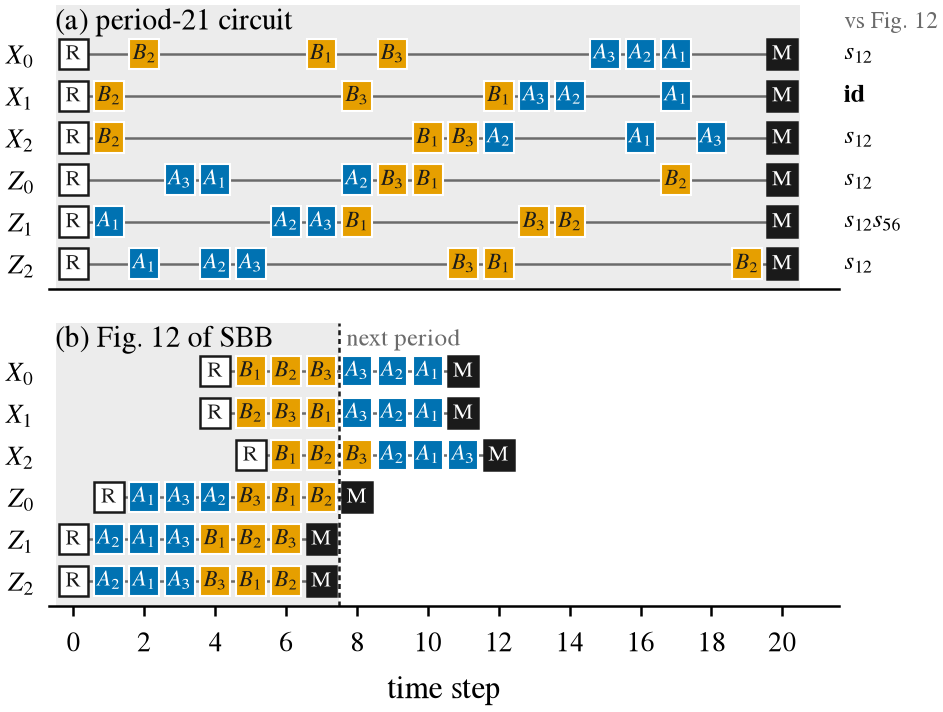
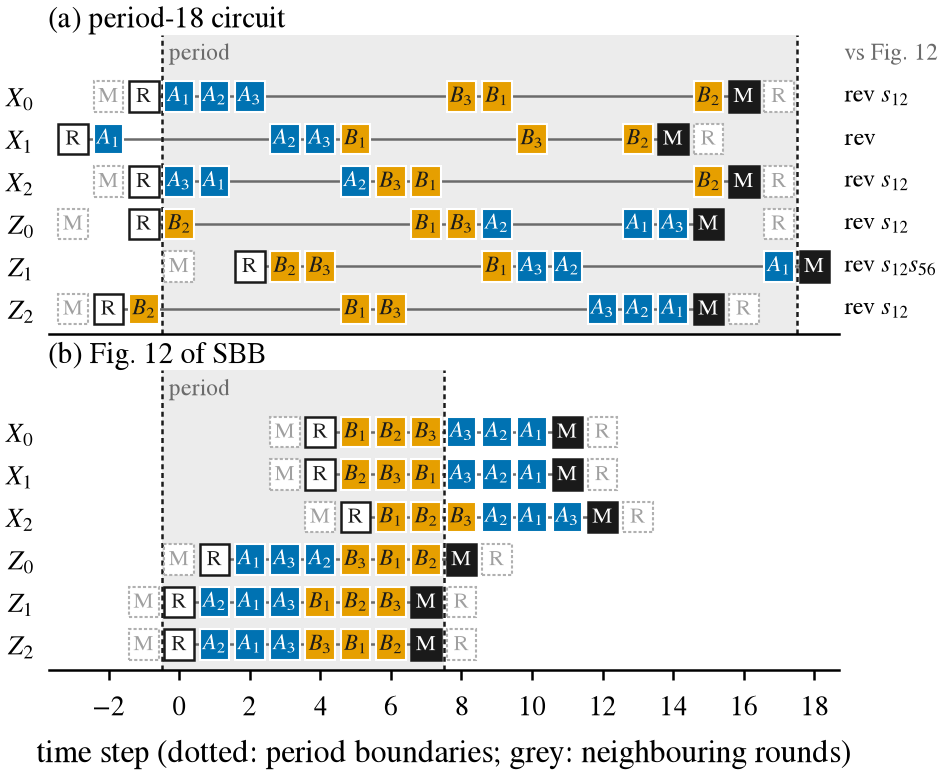
paper: Fig. 1 regenerated for the period-18 headline circuit cs_P18_H24 (wrapping, pipelined) vs Fig. 12
Asserts against audit 2026-10-11-E-024b A-a: period 18, prep/meas sets, 144/144 reversal + in-pair swaps,
switch histogram 48x2 / 96x4 (= auditor b1_legal), legality/L0/determinism flags; Fig. 12 checked against baselines.strikis.

diff --git a/paper/scripts/fig1_timing.py b/paper/scripts/fig1_timing.py
@@ -1,15 +1,20 @@
-"""Fig. 1: timing diagram of the period-21 gross circuit (cand_p21) vs Fig. 12 of SBB (arXiv:2603.05481).
+"""Fig. 1: timing diagram of the period-18 gross circuit (cs_P18_H24) vs Fig. 12 of SBB (arXiv:2603.05481).
 
   uv run python paper/scripts/fig1_timing.py
 
 Data (read-only):
-  search/experiments/e021/cand_p21_spec.json          (in git)
+  search/experiments/e024a/cs_P18_H24.json            (in git; headline circuit, STATE item 13)
+  results/E-024b-audit/cs_P18/b1_legal.json, b2_ext.json  (auditor: prep/meas sets, switch histogram, orders)
   results/E-021-gross-new-orders/fig12_spec.json      (data archive)
   baselines.strikis.strikis_fig12(gross_code())       (Fig. 12 rebuilt by the baseline code; must equal the file)
 Per-class orders/times use the labelling of paper/scripts/extract_class_orders.py (which asserts support
-equality and class uniformity). Assertions against claims_map.md: C31 (period 21, prep 0 / meas 20,
-48 data qubits switch 4x), C32 (X1 identical to Fig. 12, 24 checks unchanged / 120 changed, in-pair swaps
-only), Fig. 12 period 8 and non-interleaved.
+equality and class uniformity). Assertions against research/audits/2026-10-11-E-024b.md sec. A-a:
+period 18; prep in {2,15,16,17}, meas in {0,14,15,16} (wrapping, pipelined); data-qubit X/Z switch histogram
+equal to the auditor's (48 x 2, 96 x 4); 144/144 checks are reversal + in-pair swaps of the Fig. 12 order
+(0 unchanged); evaluator validate_schedule and L0 passed in the audit file. Fig. 12: period 8, non-interleaved.
+Each row is drawn as one round's window [prep, meas] unrolled from the reset; the start is taken in the
+current or the previous period so that the drawn span is shortest. Light grey R/M: the neighbouring rounds
+of the same check (shows the pipelining).
 """
 from __future__ import annotations
 
@@ -27,7 +32,8 @@ _spec = importlib.util.spec_from_file_location("eco", ROOT / "paper/scripts/extr
 eco = importlib.util.module_from_spec(_spec)
 _spec.loader.exec_module(eco)
 
-CAND = "search/experiments/e021/cand_p21_spec.json"
+CAND = "search/experiments/e024a/cs_P18_H24.json"
+AUD = "results/E-024b-audit/cs_P18/"
 FIG12 = "results/E-021-gross-new-orders/fig12_spec.json"
 
 
@@ -81,7 +87,9 @@ GROUP = {  # the 8-element class of SBB-extended-code-preserving orders (draft, 
     "s12s56": lambda o: s(s(o, 0, 1), 4, 5),
 }
 GROUP.update({"rev·" + k: (lambda o, f=f: tuple(reversed(f(o)))) for k, f in list(GROUP.items())})
-TEX = {"id": "id", "s12": r"$s_{12}$", "s56": r"$s_{56}$", "s12s56": r"$s_{12}s_{56}$"}
+_T = {"id": "", "s12": r"s_{12}", "s56": r"s_{56}", "s12s56": r"s_{12}s_{56}"}
+TEX = {k: ("id" if k == "id" else f"${v}$") for k, v in _T.items()}
+TEX.update({"rev·" + k: ("rev" if k == "id" else "rev " + f"${v}$") for k, v in _T.items()})
 
 
 def transform(src, dst):
@@ -107,71 +115,114 @@ def switches(d):
     return out
 
 
+def best_starts(cls, rows, P):
+    """Per row choose start = prep or prep - P so that the overall drawn span is shortest (ties: later)."""
+    import itertools
+    best = None
+    for ch in itertools.product((0, 1), repeat=len(rows)):
+        st = [cls[k][2] - P * c for k, c in zip(rows, ch)]
+        lo = min(st)
+        hi = max(s0 + ((cls[k][3] - cls[k][2]) % P) for s0, k in zip(st, rows))
+        key = (hi - lo, -lo)
+        if best is None or key < best[0]:
+            best = (key, st)
+    return best[1]
+
+
 def main():
     cand, f12 = load(CAND), load(FIG12)
+    b1, b2 = load(AUD + "b1_legal.json"), load(AUD + "b2_ext.json")
     check(norm(fig12_from_baseline()) == norm(f12), "fig12_spec.json differs from baselines.strikis Fig. 12")
-    check(cand["period"] == 21 and f12["period"] == 8, "periods (C31: 21; Fig. 12: 8)")
-    check(all(c["prep"] == 0 and c["meas"] == 20 for c in cand["x_checks"] + cand["z_checks"]),
-          "C31: all ancillas reset at 0, measured at 20")
+    check(cand["period"] == 18 == b1["period"] and f12["period"] == 8, "periods (E-024b A-a: 18; Fig. 12: 8)")
+    preps = {c["prep"] for c in cand["x_checks"] + cand["z_checks"]}
+    meass = {c["meas"] for c in cand["x_checks"] + cand["z_checks"]}
+    check(preps == {2, 15, 16, 17} == set(b1["preps"]) and meass == {0, 14, 15, 16} == set(b1["meas"]),
+          f"A-a: prep/meas sets, got {preps} {meass}")
+    check(not b1["own_spec_problems"] and not b1["evaluator_validate_problems"]
+          and all(v["passed"] for v in b1["L0"].values())
+          and not any(v["any_fire_noiseless"] for v in b1["determinism"].values()), "A-a: legal, L0, deterministic")
     ccls, cord = per_check(cand)
     fcls, ford = per_check(f12)
     tr = {k: transform(fcls[k][0], ccls[k][0]) for k in ccls}
-    check(tr[("X", 1)] == "id", "C32: class X1 identical to Fig. 12")
-    check(all(not v.startswith("rev") for v in tr.values()), "C32: only in-pair swaps")
     same = sum(cord[k] == ford[k] for k in cord)
-    check((same, len(cord) - same) == (24, 120), f"C32: 24 unchanged / 120 changed checks, got {same}")
+    rev = sum(1 for k in cord if not any(f(ford[k]) == cord[k] for n, f in GROUP.items() if not n.startswith("rev")))
+    check(same == b2["order_relation"]["same"] == 0 and rev == b2["order_relation"]["rev+swaps"] == 144,
+          f"A-a: 144/144 reversal + in-pair swaps, got same={same} rev={rev}")
+    check(all(v.startswith("rev") for v in tr.values()), "every class reversed")
+    check(b2["ext_X"]["equal"] and b2["ext_X"]["N_cand"] == 360, "A-a: extended code = Fig. 12 (360 cols)")
     sw_c, sw_f = Counter(switches(cand).values()), Counter(switches(f12).values())
-    check(sw_c.get(4, 0) == 48 and max(sw_c) == 4, f"C31: 48 data qubits switch 4x, got {dict(sw_c)}")
+    aud_sw = {int(k): v for k, v in b1["switch_hist"].items()}
+    check(dict(sw_c) == aud_sw == {2: 48, 4: 96}, f"A-a: switch histogram 48x2, 96x4, got {dict(sw_c)}")
     check(dict(sw_f) == {2: 144}, f"Fig. 12 non-interleaved (every data qubit 2 switches), got {dict(sw_f)}")
-    print("switch histogram cand_p21", dict(sw_c), "| Fig. 12", dict(sw_f))
+    print("switch histogram cs_P18_H24", dict(sw_c), "| Fig. 12", dict(sw_f))
     for k in sorted(ccls):
-        print(k, "cand", " ".join(ccls[k][0]), ccls[k][1], "| fig12", " ".join(fcls[k][0]), fcls[k][1], "|", tr[k])
+        print(k, "cand", " ".join(ccls[k][0]), ccls[k][1], ccls[k][2:], "| fig12", " ".join(fcls[k][0]),
+              fcls[k][1], fcls[k][2:], "|", tr[k])
 
     style()
     rows = [("X", 0), ("X", 1), ("X", 2), ("Z", 0), ("Z", 1), ("Z", 2)]
-    fig, axes = plt.subplots(2, 1, figsize=(COLW, 2.6), sharex=True,
-                             gridspec_kw={"hspace": 0.12, "height_ratios": [1, 1]})
     W = 0.84
+    spans = {}
+    for name, cls, P in (("a", ccls, 18), ("b", fcls, 8)):
+        st = best_starts(cls, rows, P)
+        spans[name] = (st, min(st), max(s0 + ((cls[k][3] - cls[k][2]) % P) for s0, k in zip(st, rows)))
+        print(name, "starts", st, "span", spans[name][1:])
+    lo = min(v[1] for v in spans.values()) - 0.7
+    hi = max(v[2] for v in spans.values()) + 0.7
+    fig, axes = plt.subplots(2, 1, figsize=(COLW, 2.75), sharex=True,
+                             gridspec_kw={"hspace": 0.12, "height_ratios": [1, 1]})
 
     def box(ax, x, y, lab):
         fc, tc = (BLUE, "white") if lab[0] == "A" else (ORANGE, INK)
         ax.add_patch(Rectangle((x - W / 2, y - 0.36), W, 0.72, fc=fc, ec="white", lw=0.5, zorder=3))
         ax.text(x, y, f"${lab[0]}_{lab[1]}$", ha="center", va="center", fontsize=5.4, color=tc, zorder=4)
 
-    def endpoint(ax, x, y, kind):
+    def endpoint(ax, x, y, kind, ghost=False):
+        if ghost:
+            ax.add_patch(Rectangle((x - W / 2, y - 0.36), W, 0.72, fc="white", ec="#b0b0b0", lw=0.5,
+                                   ls=(0, (1.5, 1)), zorder=3))
+            ax.text(x, y, kind, ha="center", va="center", fontsize=5.4, color="#a0a0a0", zorder=4)
+            return
         fc, tc = ("white", INK) if kind == "R" else (INK, "white")
         ax.add_patch(Rectangle((x - W / 2, y - 0.36), W, 0.72, fc=fc, ec=INK, lw=0.6, zorder=3))
         ax.text(x, y, kind, ha="center", va="center", fontsize=5.4, color=tc, zorder=4)
 
-    for ax, cls, P, name in ((axes[0], ccls, 21, "(a) period-21 circuit"), (axes[1], fcls, 8, "(b) Fig. 12 of SBB")):
+    for ax, key, cls, P, name in ((axes[0], "a", ccls, 18, "(a) period-18 circuit"),
+                                  (axes[1], "b", fcls, 8, "(b) Fig. 12 of SBB")):
+        st = spans[key][0]
+        ax.axvspan(-0.5, P - 0.5, color="#ececec", zorder=0, lw=0)
+        for xb in (-0.5, P - 0.5):
+            ax.axvline(xb, color=INK, lw=0.6, ls=(0, (2, 1.5)), zorder=2)
         for r, k in enumerate(rows):
             y = -r
             order, times, prep, meas = cls[k]
-            unroll = lambda t: prep + (t - prep) % P  # noqa: E731
-            tm = unroll(meas) if meas != prep else prep + P
-            ax.plot([prep, tm], [y, y], color=GREY, lw=0.6, zorder=1)
-            endpoint(ax, prep, y, "R")
+            s0 = st[r]
+            tm = s0 + (meas - prep) % P
+            ax.plot([s0, tm], [y, y], color=GREY, lw=0.6, zorder=1)
+            endpoint(ax, s0, y, "R")
             endpoint(ax, tm, y, "M")
             for lab, t in zip(order, times):
-                box(ax, unroll(t), y, lab)
-            if P == 21:
-                ax.text(21.75, y, TEX[tr[k]], ha="left", va="center", fontsize=6,
-                        fontweight="bold" if tr[k] == "id" else "normal")
-        ax.axvspan(-0.5, P - 0.5, color="#ececec", zorder=0, lw=0)
-        if P == 8:
-            ax.axvline(P - 0.5, color=INK, lw=0.6, ls=(0, (2, 1.5)), zorder=2)
-            ax.text(P - 0.3, 0.75, "next period", fontsize=5.8, color=GREY, ha="left", va="center")
+                box(ax, s0 + (t - prep) % P, y, lab)
+            # neighbouring rounds of the same check, where they fall inside the drawn range
+            if lo < tm - P < s0 - 0.5:
+                endpoint(ax, tm - P, y, "M", ghost=True)
+            if tm + 0.5 < s0 + P < hi:
+                endpoint(ax, s0 + P, y, "R", ghost=True)
+            if key == "a":
+                ax.text(hi + 0.15, y, TEX[tr[k]], ha="left", va="center", fontsize=5.8)
+        ax.text(-0.3, 1.0, "period", fontsize=5.6, color=GREY, ha="left", va="center")
         ax.set_yticks([-r for r in range(6)], [f"${t}_{c}$" for t, c in rows])
-        ax.set_ylim(-5.6, 1.15)
-        ax.text(-0.5, 0.75, name, fontsize=7, ha="left", va="center")
+        ax.set_ylim(-5.6, 1.45)
         for side in ("top", "right", "left"):
             ax.spines[side].set_visible(False)
         ax.tick_params(axis="y", length=0)
+    for ax, name in ((axes[0], "(a) period-18 circuit"), (axes[1], "(b) Fig. 12 of SBB")):
+        ax.set_title(name, fontsize=7, loc="left", pad=1)
     axes[0].tick_params(axis="x", length=0)
-    axes[1].set_xlim(-0.7, 21.6)
-    axes[1].set_xticks(range(0, 21, 2))
-    axes[1].set_xlabel("time step")
-    axes[0].text(21.75, 0.75, "vs Fig. 12", fontsize=5.6, color=GREY, ha="left", va="center")
+    axes[1].set_xlim(lo, hi)
+    axes[1].set_xticks([t for t in range(int(lo) - 1, int(hi) + 1) if t % 2 == 0 and lo < t < hi])
+    axes[1].set_xlabel("time step (dotted: period boundaries; grey: neighbouring rounds)")
+    axes[0].text(hi + 0.15, 1.0, "vs Fig. 12", fontsize=5.6, color=GREY, ha="left", va="center")
     save(fig, "fig1_timing")
 
 
